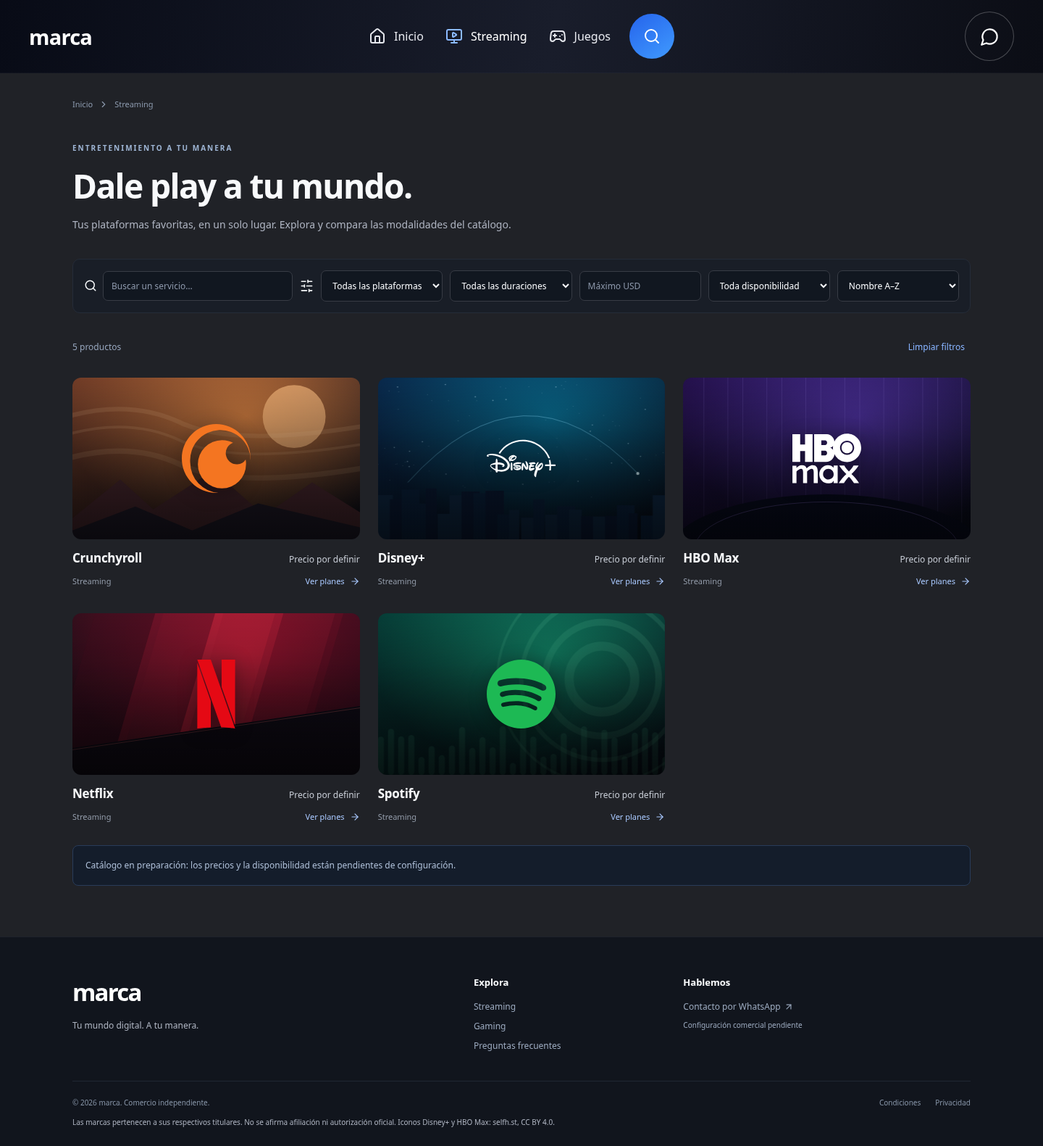
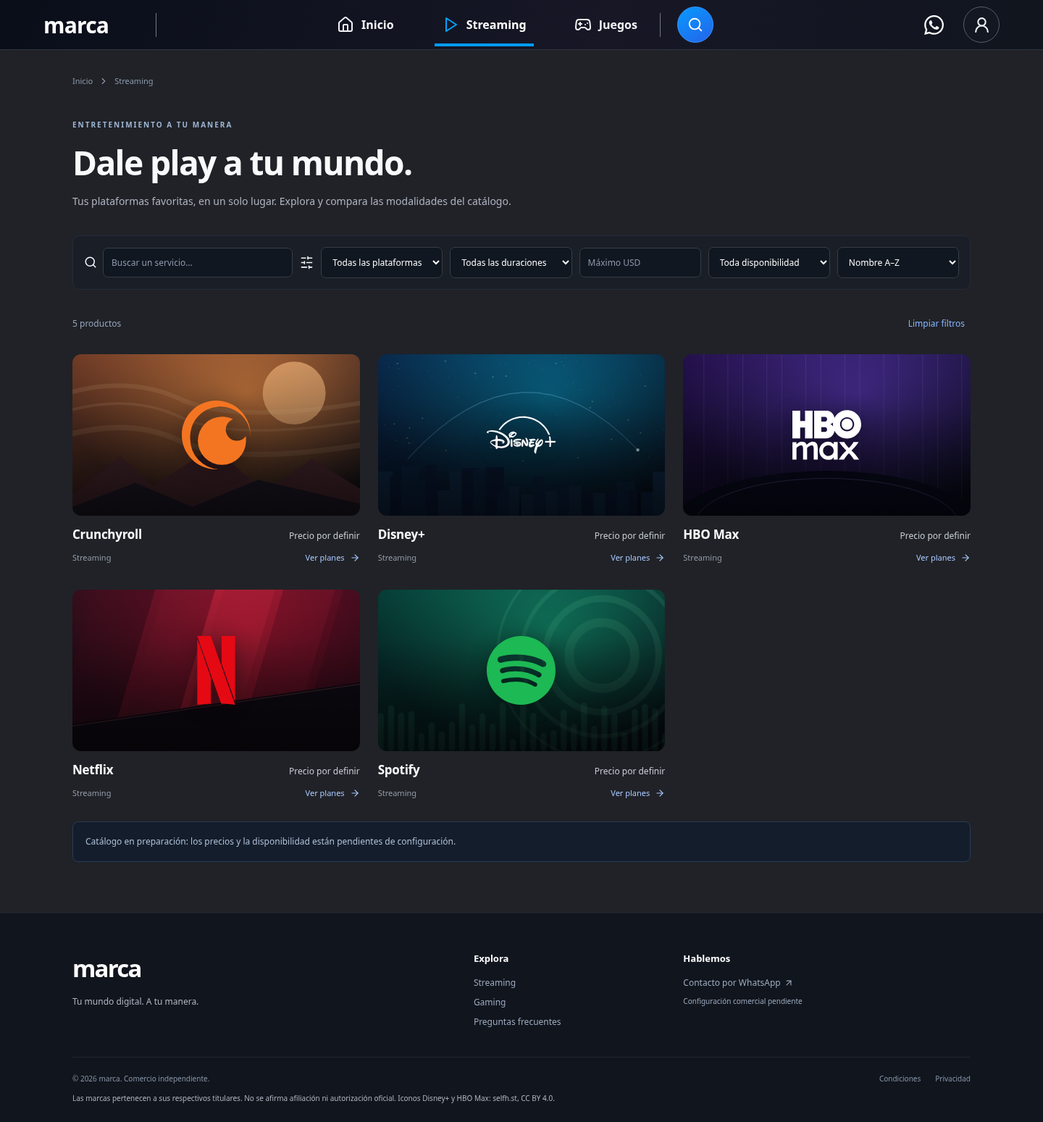
Replicar composición de la referencia con paneles diagonales y lupa azul

diff --git a/src/home.css b/src/home.css
@@ -88,3 +88,85 @@
 
 /* Narrow illustration windows must crop within the adventure panel of the atlas. */
 @media(min-width:761px) and (max-width:900px), (max-width:360px){.home-game-scene{width:auto;height:200%;left:auto;right:0;top:0;transform:translateY(-50%)}}
+
+/* Latest reference: continuous diagonal artwork instead of floating tiles. */
+.home-page{width:min(1528px,calc(100% - 92px));padding-top:25px}
+.home-hero{display:block;position:relative;min-height:290px;height:290px;padding:36px 48px;overflow:hidden;border:0;background:linear-gradient(115deg,#15202c,#0b121b 70%);border-radius:20px}
+.home-hero-copy{width:41%;height:100%;display:flex;flex-direction:column;justify-content:center;z-index:4}
+.home-hero h1{font-size:clamp(33px,3.1vw,46px);line-height:1.08;font-weight:780;letter-spacing:-1.25px;margin-bottom:13px}
+.home-hero-copy>p{font-size:17px;line-height:1.5;max-width:425px;margin-bottom:19px}
+.home-hero-actions{gap:18px;flex-wrap:nowrap}
+.home-hero-actions .button{border-radius:14px;height:45px;min-height:45px;font-size:14px;padding:10px 22px;white-space:nowrap;background:linear-gradient(110deg,#008fff,#0861ec);border:1px solid #1a86fa}
+.home-hero-actions .secondary{background:#0b121b80;border-color:#89919b}
+.home-platforms{position:absolute;left:39%;right:-56px;top:0;bottom:0;height:100%;padding:0;margin:0;display:flex;gap:0;transform:none;perspective:none;justify-content:stretch;z-index:2}
+.home-platform,.home-platform:nth-child(n),.home-platform.platform-free-fire{flex:1 1 0;min-width:0;max-width:none;width:auto;height:100%;margin:0;transform:skewX(-18deg);border:0;border-left:1px solid #63789580;border-radius:0;box-shadow:none;background:none;overflow:hidden;isolation:isolate}
+.home-platform:before{display:none}.home-platform:after{display:none}
+.home-panel-art{position:absolute;inset:0 -58px;transform:skewX(18deg);background-image:var(--home-art);background-size:auto 200%;z-index:-2}
+.home-panel-art:after{content:'';position:absolute;inset:0;background:linear-gradient(#050a100a,#050a1020 38%,#050a1070)}
+.home-panel-art.art-netflix{background-position:13% top}.home-panel-art.art-disney{background-position:50% top}.home-panel-art.art-max{background-position:87% top}.home-panel-art.art-crunchyroll{background-position:13% bottom}.home-panel-art.art-spotify{background-position:50% bottom}.home-panel-art.art-free-fire{background-position:91% bottom}
+.home-platform .home-identity{transform:skewX(18deg);margin-top:45px;max-width:100%;gap:3px}
+.home-platform .product-logo{width:75%;height:86px;filter:drop-shadow(0 2px 6px #0005)}
+.home-platform .identity-netflix .product-logo{width:61%;height:92px}
+.home-platform .identity-disney .product-logo{width:112%;height:147px;max-width:none}
+.home-platform .identity-max .product-logo{height:78px;width:83%}
+.home-platform .identity-crunchyroll .product-logo{height:61px}
+.home-platform .identity-spotify .product-logo{width:69%;height:73px}
+.home-platform .home-service-name{font-size:13px}
+.home-platform .home-game-name{transform:skewX(18deg);align-self:auto;margin:55px 0 0;font-size:26px;letter-spacing:-1px}
+.home-slide-controls{position:absolute;bottom:20px;left:50%;display:flex;align-items:center;justify-content:center;gap:8px;z-index:7}
+.home-slide-controls button{position:relative;display:block;width:10px;height:10px;border-radius:10px;background:#5e6a7d;padding:0;border:1px solid #7c8ca0;cursor:pointer}
+.home-slide-controls button:before{content:'';position:absolute;inset:-12px -7px}
+.home-slide-controls button[aria-pressed=true]{width:17px;background:#f6faff;border:3px solid #009dff;box-shadow:0 0 0 1px #003e6c}
+.home-slide-1 .home-panel-art{opacity:.72}.home-slide-2 .home-platforms{left:43%}.home-slide-2 .platform-free-fire{flex-grow:2}
+.home-process{margin-top:18px;padding:17px 25px;min-height:71px;border:1px solid #1d2936;border-radius:17px;background:linear-gradient(110deg,#121c27,#111923)}
+.home-process-item{min-height:35px;gap:22px}
+.home-process-item:not(:last-child):after{top:0;bottom:0}
+.home-process-item strong{font-size:14px;margin-bottom:2px}
+.home-process-item span{font-size:12px}
+.home-process-item>svg{width:32px;height:32px}
+.home-section-heading{margin:33px 0 21px}
+.home-section-heading h2{font-size:30px;letter-spacing:-.65px;font-weight:750}
+.home-section-heading>a{font-size:15px}
+.home-streaming-grid{gap:14px}
+.home-page .home-service-card{border-radius:15px}
+.home-cover{aspect-ratio:2.15}
+.home-card-details{padding:10px 51px 11px 18px;min-height:70px}
+.home-card-details h3{font-size:18px;margin-bottom:3px;letter-spacing:-.4px}
+.home-card-details>p{font-size:12px;line-height:1.35}
+.home-card-details>p span:first-child{display:none}
+.home-card-action{width:38px;height:37px;right:11px;bottom:18px;border-radius:11px}
+.home-page .home-game-banner{grid-template-columns:51% 1fr auto;min-height:173px;gap:30px;padding-right:25px;border-radius:18px}
+.home-game-art{min-height:173px;clip-path:polygon(0 0,100% 0,93% 100%,0 100%);padding-left:36px;border-right:3px solid #2563eb}
+.home-game-art .home-game-name{font-size:45px;letter-spacing:-1.2px}
+.home-game-copy h3{font-size:27px;margin-bottom:5px}
+.home-game-copy p{font-size:14px}
+.home-game-packages{font-size:12px;padding:8px 16px;border-radius:22px}
+.home-game-action{width:auto;min-width:145px;height:44px;border-radius:17px;padding:0 17px;display:flex;align-items:center;justify-content:center;gap:10px;font-size:14px;font-weight:650;white-space:nowrap;background:linear-gradient(100deg,#008fff,#0861ec)}
+@media(min-width:1600px){.home-hero{height:310px;min-height:310px}.home-platforms{transform:none}.home-cover{aspect-ratio:2.3}.home-card-details{min-height:76px}.home-card-details>p{font-size:13px}}
+@media(max-width:1200px){.home-page{width:calc(100% - 48px)}.home-hero{padding:30px 32px}.home-hero h1{font-size:34px}.home-hero-copy>p{font-size:14px}.home-hero-actions{gap:11px}.home-hero-actions .button{font-size:12px;padding:10px 15px}.home-platforms{left:41%;right:-45px}.home-platform .home-service-name{font-size:10px}.home-platform .home-game-name{font-size:21px}.home-platform .identity-disney .product-logo{height:124px}.home-platform .identity-max .product-logo{height:62px}.home-process{padding:17px 13px}.home-process-item{gap:11px}.home-process-item strong{font-size:12px}.home-process-item span{font-size:10px}.home-section-heading h2{font-size:27px}.home-card-details{padding-left:12px;min-height:74px}.home-card-details h3{font-size:16px}.home-card-details>p{font-size:11px}.home-card-action{width:32px;height:34px;right:9px}.home-page .home-game-banner{grid-template-columns:44% 1fr auto;gap:20px;padding-right:18px}.home-game-art .home-game-name{font-size:34px}.home-game-copy h3{font-size:23px}.home-game-copy p{font-size:12px}.home-game-action{min-width:115px;padding:0 13px;font-size:12px}.home-game-packages{font-size:10px}}
+@media(max-width:900px){.home-hero-copy{width:43%}.home-hero{padding:29px 24px}.home-hero h1{font-size:29px}.home-hero-copy>p{font-size:13px}.home-hero-actions .button{padding:10px 12px;font-size:11px}.home-platforms{left:46%}.home-platform .home-service-name{font-size:8px}.home-platform .home-game-name{font-size:17px}.home-platform .product-logo{height:57px}.home-platform .identity-netflix .product-logo{height:73px}.home-platform .identity-max .product-logo{height:55px}.home-platform .identity-disney .product-logo{height:98px}.home-platform .identity-crunchyroll .product-logo{height:44px}.home-platform .identity-spotify .product-logo{height:57px}.home-process-item{gap:9px;padding:0 7px}.home-process-item>svg{width:25px}.home-process-item strong{font-size:10px}.home-process-item span{font-size:9px}.home-cover{aspect-ratio:2.2}.home-card-details{min-height:70px}.home-page .home-game-banner{grid-template-columns:39% 1fr auto;gap:16px}.home-game-art{padding:18px}.home-game-art .home-game-name{font-size:28px}.home-game-action{min-width:44px;padding:0 12px}.home-game-action span{display:none}}
+@media(max-width:760px){.home-page{width:calc(100% - 32px);padding-top:16px}.home-hero{padding:25px 23px 0;height:auto;min-height:0;display:flex;flex-direction:column;gap:24px}.home-hero-copy{width:100%;height:auto;min-height:0}.home-hero h1{font-size:32px}.home-hero-copy>p{font-size:14px;max-width:440px;margin-bottom:19px}.home-hero-actions{gap:11px}.home-hero-actions .button{font-size:12px;height:44px;padding:10px 15px}.home-platforms,.home-slide-2 .home-platforms{position:relative;left:auto;right:auto;top:auto;bottom:auto;display:flex;max-width:none;margin:0 -23px;width:calc(100% + 46px);height:185px;min-height:185px;padding:0;transform:none;overflow:hidden;flex-shrink:0}.home-platform,.home-platform:nth-child(n),.home-platform.platform-free-fire{flex:1 1 0;height:100%;width:auto;max-width:none;min-width:0;margin:0;transform:skewX(-12deg);border-radius:0;border-left:1px solid #52627480}.home-panel-art{inset:0 -30px;transform:skewX(12deg)}.home-platform .home-identity{transform:skewX(12deg);margin-top:25px;gap:1px}.home-platform .product-logo{height:45px;width:84%}.home-platform .identity-netflix .product-logo{height:57px;width:70%}.home-platform .identity-disney .product-logo{height:80px;width:120%}.home-platform .identity-max .product-logo{height:43px;width:95%}.home-platform .identity-crunchyroll .product-logo{height:35px}.home-platform .identity-spotify .product-logo{height:41px;width:82%}.home-platform .home-service-name{font-size:6px}.home-platform .home-game-name{font-size:12px;margin-top:25px;transform:skewX(12deg);letter-spacing:-.5px}.home-slide-controls{bottom:13px;left:50%;transform:translateX(-50%)}.home-process{margin-top:16px;grid-template-columns:repeat(2,minmax(0,1fr));padding:19px 8px;gap:23px 0;min-height:0;border-radius:15px}.home-process-item{padding:0 7px;gap:9px}.home-process-item strong{font-size:10px}.home-process-item span{font-size:9px}.home-process-item>svg{width:24px;height:28px}.home-section-heading{margin:27px 0 16px}.home-section-heading h2{font-size:22px}.home-section-heading>a{font-size:11px}.home-streaming-grid{gap:14px 12px}.home-cover{aspect-ratio:1.8}.home-card-details{padding:12px 12px 53px;min-height:104px}.home-card-details h3{font-size:16px}.home-card-details>p{font-size:11px}.home-card-action{width:42px;height:40px;right:10px;bottom:10px}.home-page .home-game-banner{grid-template-columns:1fr auto;min-height:0;padding:0 17px 20px;gap:0 12px}.home-game-art{grid-column:1/-1;margin:0 -17px 18px;min-height:155px;height:155px;clip-path:none;border-right:0;border-bottom:2px solid #2563eb;padding:22px 25px}.home-game-art .home-game-name{font-size:37px}.home-game-copy h3{font-size:23px}.home-game-copy p{font-size:12px}.home-game-packages{font-size:10px;padding:8px 11px}.home-game-action{width:44px;min-width:44px;padding:0;border-radius:13px}.home-game-action span{display:none}}
+@media(max-width:360px){.home-hero{padding:24px 19px 0}.home-hero h1{font-size:28px}.home-hero-copy>p{font-size:13px}.home-hero-actions{gap:8px}.home-hero-actions .button{font-size:11px;padding:10px 11px}.home-platforms{margin:0 -19px;width:calc(100% + 38px);height:164px;min-height:164px}.home-section-heading h2{font-size:19px}.home-card-details h3{font-size:14px}.home-card-details>p{font-size:10px}.home-game-art .home-game-name{font-size:33px}}
+/* Keep the final character panel inside the rounded banner edge. */
+.home-platforms{right:0}
+.home-platform.platform-free-fire{transform:none;flex-grow:1.35;margin-left:-32px;clip-path:polygon(44px 0,100% 0,100% 100%,0 100%)}
+.platform-free-fire .home-panel-art{inset:0;transform:none;background-position:right bottom}
+.home-platform.platform-free-fire .home-game-name{transform:none;font-size:23px;margin-top:70px}
+.home-panel-art.art-disney{background-position:60% top}
+.home-panel-art.art-max{background-position:right top}
+.home-panel-art.art-crunchyroll{background-position:25% bottom}
+.home-game-art{border-right:0}
+.home-game-art:before{content:'';position:absolute;right:0;top:0;bottom:0;width:3px;background:#ff8500;transform:skewX(-14deg);transform-origin:top;z-index:3}
+.home-game-action{background:linear-gradient(100deg,#ff8a00,#ff6500);border-color:#ff941f}
+.home-game-action:hover{background:#ff8a00}
+@media(max-width:1200px){.home-platform.platform-free-fire .home-game-name{font-size:20px}}
+@media(max-width:760px){.home-platforms{right:auto}.home-platform.platform-free-fire{transform:none;margin-left:-11px;flex-grow:1.3;clip-path:polygon(16px 0,100% 0,100% 100%,0 100%)}.home-platform.platform-free-fire .home-game-name{transform:none;font-size:12px;margin-top:30px}.home-game-art{border-bottom-color:#ff8500}.home-game-art:before{display:none}}
+.home-game-name{text-transform:uppercase;font-weight:850;letter-spacing:-1.8px}
+.home-process-item>.whatsapp-icon{flex-shrink:0;width:32px;height:32px}
+@media(max-width:1200px){.home-process-item>.whatsapp-icon{width:28px;height:28px}}
+@media(max-width:900px){.home-process-item>.whatsapp-icon{width:25px;height:25px}}
+@media(max-width:760px){.home-process-item>.whatsapp-icon{width:24px;height:24px}}
+/* Frame the explorer from the top of the adventure illustration. */
+.home-game-scene{top:0;transform:translateY(-50%)}
+.home-cover.art-netflix:before{background:#2a02034d}
+.platform-netflix .home-panel-art:after{background:linear-gradient(#29020950,#18030860)}

diff --git a/src/HomeDashboard.tsx b/src/HomeDashboard.tsx
@@ -1,7 +1,8 @@
 import {useState,type CSSProperties} from 'react';
-import {ArrowRight,Gamepad2,Play,Search,Layers,MessageCircle,ClipboardCheck,Diamond} from 'lucide-react';
+import {ArrowRight,Gamepad2,Play,Zap,Layers,ShieldCheck,Diamond} from 'lucide-react';
 import {catalog,type Product} from './catalog';
 import {ProductIdentity} from './ProductIdentity';
+import {WhatsAppIcon} from './WhatsAppIcon';
 import {money,purchasable,promotion,whatsappUrl} from './commerce';
 
 const products=catalog.filter(p=>p.active);
@@ -9,10 +10,10 @@ const streaming=products.filter(p=>p.category==='streaming');
 const game=products.find(p=>p.id==='free-fire');
 const atlas=new URL(`${import.meta.env.BASE_URL}art/home/editorial-atlas.webp`,document.baseURI).href;
 const process=[
- {Icon:Search,title:'Consulta servicios',text:'Explora nuestro catálogo'},
+ {Icon:Zap,title:'Consulta servicios',text:'Explora nuestro catálogo'},
  {Icon:Layers,title:'Compara modalidades',text:'Revisa opciones y condiciones'},
- {Icon:MessageCircle,title:'Atención por WhatsApp',text:whatsappUrl('Hola')?'Consulta antes de contratar':'Contacto pendiente de configurar'},
- {Icon:ClipboardCheck,title:'Revisa tu solicitud',text:'Confirma los detalles antes de enviar'},
+ {Icon:WhatsAppIcon,title:'Atención por WhatsApp',text:whatsappUrl('Hola')?'Consulta antes de contratar':'Contacto pendiente de configurar'},
+ {Icon:ShieldCheck,title:'Revisa tu solicitud',text:'Confirma los detalles antes de enviar'},
 ];
 
 // Only Inicio uses these wordmarks. Existing product identities stay unchanged elsewhere.
@@ -39,14 +40,22 @@ function HomeServiceCard({p}:{p:Product}){
 }
 
 export function HomeDashboard({onNavigate}:{onNavigate:()=>void}){
+ const [slide,setSlide]=useState(0);
+ const slides=[
+  {title:<>Streaming y juegos<br/>en <span>un solo lugar</span></>,description:'Explora tus plataformas favoritas y recargas de videojuegos desde un solo lugar.',primary:'/streaming',label:'Ver streaming',secondary:'/juegos',secondaryLabel:'Ver juegos'},
+  {title:<>Tus historias y música<br/>en <span>un solo lugar</span></>,description:'Explora las modalidades de Netflix, Disney+, HBO Max, Crunchyroll y Spotify.',primary:'/streaming',label:'Ver streaming',secondary:'/buscar',secondaryLabel:'Explorar catálogo'},
+  {title:<>Tu próxima partida<br/><span>empieza aquí</span></>,description:game?.description||'Explora los juegos del catálogo.',primary:'/producto/free-fire',label:'Ver paquetes',secondary:'/juegos',secondaryLabel:'Ver juegos'},
+ ];
+ const active=slides[slide];
  return <div className="home-dashboard" style={{'--home-art':`url(${atlas})`} as CSSProperties}>
-  <section className="home-hero" aria-labelledby="home-heading">
+  <section className={`home-hero home-slide-${slide}`} aria-labelledby="home-heading" aria-roledescription="carrusel">
    <div className="home-hero-copy">
-    <h1 id="home-heading">Streaming y juegos<br/>en <span>un solo lugar</span></h1>
-    <p>Explora tus plataformas favoritas y recargas de videojuegos desde un solo lugar.</p>
-    <div className="home-hero-actions"><a className="button" href="#/streaming" onClick={onNavigate}><Play size={19}/>Ver streaming</a><a className="button secondary" href="#/juegos" onClick={onNavigate}><Gamepad2 size={20}/>Ver juegos</a></div>
+    <h1 id="home-heading">{active.title}</h1>
+    <p>{active.description}</p>
+    <div className="home-hero-actions"><a className="button" href={`#${active.primary}`} onClick={onNavigate}><Play size={19}/>{active.label}</a><a className="button secondary" href={`#${active.secondary}`} onClick={onNavigate}><Gamepad2 size={20}/>{active.secondaryLabel}</a></div>
    </div>
-   <div className="home-platforms" aria-hidden="true">{products.map((p,i)=><div className={`home-platform platform-${p.id} art-${p.id}`} key={p.id} style={{'--layer':i} as CSSProperties}><HomeIdentity p={p}/></div>)}</div>
+   <div className="home-platforms" aria-hidden="true">{products.map((p,i)=><div className={`home-platform platform-${p.id}`} key={p.id} style={{'--layer':i} as CSSProperties}><div className={`home-panel-art art-${p.id}`}/><HomeIdentity p={p}/></div>)}</div>
+   <div className="home-slide-controls" aria-label="Diapositivas del banner">{slides.map((_,i)=><button key={i} aria-label={`Ver diapositiva ${i+1}`} aria-pressed={slide===i} onClick={()=>setSlide(i)}/>)}</div>
   </section>
   <div className="home-process" aria-label="Cómo consultar y solicitar">{process.map(({Icon,title,text})=><div className="home-process-item" key={title}><Icon size={32} strokeWidth={1.5} aria-hidden="true"/><div><strong>{title}</strong><span>{text}</span></div></div>)}</div>
   <section className="home-streaming" aria-labelledby="streaming-heading">
@@ -61,7 +70,7 @@ export function HomeDashboard({onNavigate}:{onNavigate:()=>void}){
      <HomeIdentity p={game}/>
     </a>
     <div className="home-game-copy"><h3>{game.name}</h3><p>{game.description}</p><a className="home-game-packages" href={`#/producto/${game.id}`}><Diamond size={19}/>Consultar paquetes de diamantes</a></div>
-    <a className="home-game-action" href={`#/producto/${game.id}`} aria-label={`Ver paquetes de ${game.name}`}><ArrowRight size={24}/></a>
+    <a className="home-game-action" href={`#/producto/${game.id}`} aria-label={`Ver paquetes de ${game.name}`}><span>Ver paquetes</span><ArrowRight size={22}/></a>
    </article>
   </section>}
   {products.some(promotion)&&<section aria-labelledby="home-offers-heading"><div className="home-section-heading"><h2 id="home-offers-heading">Ofertas del catálogo</h2></div><div className="home-streaming-grid">{products.filter(promotion).map(p=><HomeServiceCard key={p.id} p={p}/>)}</div></section>}

diff --git a/src/main.tsx b/src/main.tsx
@@ -1,13 +1,15 @@
 import React,{useEffect,useRef,useState} from 'react';
 import {createRoot} from 'react-dom/client';
-import {ArrowRight,ArrowUpRight,Search,Gamepad2,MessageCircle,Menu,X,Check,ShieldCheck,SlidersHorizontal,ChevronRight,Home,MonitorPlay} from 'lucide-react';
+import {ArrowRight,ArrowUpRight,Search,Gamepad2,MessageCircle,Menu,X,Check,ShieldCheck,SlidersHorizontal,ChevronRight,Home,UserRound,Play} from 'lucide-react';
 import {business,catalog,type Product} from './catalog';
 import {money,purchasable,validPlayerId,whatsappUrl,orderMessage} from './commerce';
 import {ProductIdentity} from './ProductIdentity';
 import {ProductCard as Card} from './ProductCard';
 import {HomeDashboard} from './HomeDashboard';
+import {WhatsAppIcon} from './WhatsAppIcon';
 import './style.css';
 import './home.css';
+import './navigation.css';
 const products=catalog.filter(p=>p.active);
 function App(){
  const [route,setRoute]=useState(location.hash.slice(1)||'/');const [query,setQuery]=useState('');const [menu,setMenu]=useState(false);const [selected,setSelected]=useState('');const [duration,setDuration]=useState('');const [availability,setAvailability]=useState('');const [sort,setSort]=useState('name');const [max,setMax]=useState('');
@@ -25,12 +27,13 @@ function App(){
   <a className="brand" href="#/" aria-label="Inicio">marca</a>
   <div className="nav-center">
    <nav id="main-navigation" className={menu?'open':''} aria-label="Principal">
-    {([['/','Inicio',Home],['/streaming','Streaming',MonitorPlay],['/juegos','Juegos',Gamepad2]] as const).map(([path,label,Icon])=><a key={path} onClick={reset} className={route===path?'active':''} aria-current={route===path?'page':undefined} href={`#${path}`}><Icon size={24} aria-hidden="true"/><span>{label}</span></a>)}
+    {([['/','Inicio',Home],['/streaming','Streaming',Play],['/juegos','Juegos',Gamepad2]] as const).map(([path,label,Icon])=><a key={path} onClick={reset} className={route===path?'active':''} aria-current={route===path?'page':undefined} href={`#${path}`}><Icon size={24} aria-hidden="true"/><span>{label}</span></a>)}
    </nav>
    <button className="search-toggle" aria-label="Abrir búsqueda" aria-haspopup="dialog" onClick={()=>searchDialog.current?.showModal()}><Search size={24}/></button>
   </div>
   <div className="nav-actions">
-   <a className="contact" aria-label="Contacto por WhatsApp" title="Contacto por WhatsApp" href={contact||'#/contacto'}><MessageCircle size={27}/></a>
+   <a className="contact" aria-label="Contacto por WhatsApp" title="Contacto por WhatsApp" href={contact||'#/contacto'}><WhatsAppIcon size={27}/></a>
+   <a className="store-info" href="#/contacto" aria-label="Información de contacto" title="Información de contacto"><UserRound size={25}/></a>
    <button className="menu-button" aria-label={menu?'Cerrar menú':'Abrir menú'} aria-controls="main-navigation" aria-expanded={menu} onClick={()=>setMenu(!menu)}>{menu?<X/>:<Menu/>}</button>
   </div>
  </div></header>

diff --git a/src/navigation.css b/src/navigation.css
@@ -1,0 +1,22 @@
+/* Navigation composition from the latest approved reference; brand stays provisional. */
+.store-header{background:linear-gradient(105deg,#090e19,#171726 58%,#10151e);border-bottom:1px solid #303641}
+.store-header .nav{width:min(1528px,calc(100% - 120px));min-height:68px;gap:24px}
+.store-header .brand{font-size:30px;padding-right:43px;border-right:1px solid #737985;font-weight:700;line-height:33px;letter-spacing:-.8px}
+.nav-center{gap:24px}
+.store-header nav{gap:31px}
+.store-header nav a{position:relative;min-height:60px;gap:10px;font-size:16px;font-weight:650;padding:0 10px;color:#f1f3f7}
+.store-header nav a.active:after{display:block;left:0;right:0;bottom:0;height:4px;width:auto;background:#009cff}
+.store-header nav a.active svg{color:#00a5ff}
+.search-toggle{position:relative;width:50px;height:50px;background:linear-gradient(145deg,#079afc,#2563eb);border:1px solid #3796ff}
+.search-toggle:before{content:'';position:absolute;left:-25px;height:33px;width:1px;background:#717985}
+.search-toggle:hover{background:#187df2;box-shadow:0 0 18px #1d73d126}
+.search-toggle svg{width:22px;height:22px}
+.nav-actions{gap:27px}
+.store-header .contact{border:0;background:none;width:28px;height:44px}
+.store-header .contact:hover{background:none;color:#63baff}
+.store-info{width:50px;height:50px;border:1px solid #58606a;border-radius:50%;display:grid;place-items:center;background:#ffffff03;color:#eef2f7}
+.store-info:hover{border-color:#93b2d6;background:#ffffff07}
+.search-dialog{margin-top:85px}
+@media(max-width:1100px){.store-header .nav{width:calc(100% - 48px);gap:16px}.store-header .brand{padding-right:25px;font-size:27px}.store-header nav{gap:18px}.store-header nav a{font-size:14px;padding:0 6px}.nav-center{gap:20px}.search-toggle:before{left:-20px}.nav-actions{gap:19px}}
+@media(max-width:760px){.store-header .nav{width:calc(100% - 32px);min-height:72px;gap:13px}.store-header .brand{border:0;padding:0;font-size:26px}.search-toggle{width:44px;height:44px}.search-toggle:before{display:none}.nav-actions{gap:12px}.store-header .contact{width:26px;height:44px}.store-info{display:none}.store-header nav.open{top:100%;gap:20px}.store-header nav a{min-height:48px;font-size:12px;padding:0 6px}.store-header nav a.active:after{height:3px}.search-dialog{margin-top:87px}}
+@media(min-width:1101px){.store-header .brand{padding-right:65px}.store-header nav{gap:46px}.nav-center{gap:45px}}

diff --git a/e2e/store.spec.ts b/e2e/store.spec.ts
@@ -1,4 +1,15 @@
 import {test,expect} from '@playwright/test';
+test('los indicadores del banner cambian el contenido y sus enlaces',async({page})=>{
+ await page.goto('/');
+ await page.getByRole('button',{name:'Ver diapositiva 2',exact:true}).click();
+ await expect(page.getByRole('heading',{level:1})).toContainText('Tus historias y música');
+ await expect(page.getByRole('button',{name:'Ver diapositiva 2',exact:true})).toHaveAttribute('aria-pressed','true');
+ await page.getByRole('button',{name:'Ver diapositiva 3',exact:true}).click();
+ await expect(page.getByRole('heading',{level:1})).toContainText('Tu próxima partida');
+ await expect(page.locator('.home-hero-actions').getByRole('link',{name:'Ver paquetes',exact:true})).toHaveAttribute('href','#/producto/free-fire');
+ await page.getByRole('button',{name:'Ver diapositiva 1',exact:true}).click();
+ await expect(page.getByRole('heading',{level:1})).toContainText('Streaming y juegos');
+});
 test('inicio separa streaming y recargas y abre los productos existentes',async({page})=>{
  await page.goto('/');
  const streaming=page.getByRole('region',{name:'Servicios de streaming'});

diff --git a/src/WhatsAppIcon.tsx b/src/WhatsAppIcon.tsx
@@ -1,0 +1,3 @@
+export function WhatsAppIcon({size=27}:{size?:number;strokeWidth?:number}){
+ return <img className="whatsapp-icon" src={`${import.meta.env.BASE_URL}logos/home/whatsapp.svg`} width={size} height={size} alt="" aria-hidden="true"/>;
+}

diff --git a/README.md b/README.md
@@ -49,9 +49,9 @@ No se requiere añadir credenciales al código. El workflow usa el `GITHUB_TOKEN
 
 Inicio sigue la referencia del dashboard aportada por el usuario: hero compacto con seis plataformas, franja informativa del proceso, cinco tarjetas de streaming y un banner horizontal de Free Fire. Mantiene el negro profundo, superficies grises y acentos azules. No se añaden garantías de entrega, pagos ni precios ficticios.
 
-La navegación y su buscador se conservan intactos, igual que las páginas de Streaming y Juegos. `src/HomeDashboard.tsx` organiza el contenido de Inicio; `src/home.css` limita sus estilos a esa página. Las tarjetas exclusivas de Inicio se definen en `HomeDashboard.tsx`; `src/ProductCard.tsx` conserva las tarjetas de las otras páginas. El catálogo y la lógica comercial no cambian. Las preguntas frecuentes siguen al final.
+La navegación sigue la última referencia aprobada: se conserva «marca» sin símbolo, con enlaces centrados, subrayado activo y búsqueda circular azul. Los filtros y las páginas de Streaming y Juegos mantienen su funcionamiento. `src/HomeDashboard.tsx` organiza el contenido de Inicio; `src/home.css` limita sus estilos a esa página. Las tarjetas exclusivas de Inicio se definen en `HomeDashboard.tsx`; `src/ProductCard.tsx` conserva las tarjetas de las otras páginas. El catálogo y la lógica comercial no cambian. Las preguntas frecuentes siguen al final.
 
-Inicio utiliza un atlas WebP con seis ilustraciones originales; las otras páginas conservan los SVG de `public/art/`. Estos recursos no son material oficial de las plataformas. La composición del hero es estática y no muestra controles de carrusel. Consulta la [comparación visual y validación](docs/FIDELIDAD-INICIO.md) y la [procedencia de las ilustraciones](public/art/home/README.md).
+Inicio utiliza un atlas WebP con seis ilustraciones originales; las otras páginas conservan los SVG de `public/art/`. Estos recursos no son material oficial de las plataformas. El hero usa seis paneles diagonales continuos y tres indicadores que cambian su contenido y enlaces. Consulta la [comparación visual y validación](docs/FIDELIDAD-INICIO.md) y la [procedencia de las ilustraciones](public/art/home/README.md).
 
 ## Capturas reales
 
@@ -81,7 +81,7 @@ Para regenerarlas, en una terminal ejecutar `npm run build` y `npm run preview -
 
 - `npm run build`: TypeScript y compilación de producción.
 - `npm test`: 6 pruebas comerciales.
-- `npm run test:e2e`: 10 pruebas de navegador, repartidas entre escritorio y tamaño móvil; búsquedas, filtros, navegación, planes, validación del ID, resumen y enlace WhatsApp.
+- `npm run test:e2e`: 12 pruebas de navegador, repartidas entre escritorio y tamaño móvil; búsquedas, filtros, navegación, planes, validación del ID, resumen y enlace WhatsApp.
 - `npm run screenshots`: verifica Inicio, Streaming y Juegos, recarga directa de rutas bajo `/ipey/`, número esperado de productos y carga de imágenes y ausencia de errores JavaScript antes de guardar las seis capturas.
 
 No se envían mensajes de WhatsApp en las pruebas. La prueba de contratación usa datos ficticios aislados; los precios y el número publicados siguen pendientes. La emulación móvil en Chromium no sustituye pruebas en dispositivos físicos Android o iPhone.

diff --git a/docs/REFERENCIA-INICIO-ACTUAL.md b/docs/REFERENCIA-INICIO-ACTUAL.md
@@ -1,0 +1,20 @@
+# Última referencia de Inicio
+
+La nueva referencia sustituye la composición anterior de tarjetas flotantes. El usuario confirmó conservar «marca» sin símbolo en la cabecera.
+
+Cambios:
+
+- Cabecera de 68 px con separadores, subrayado azul en la página activa, iconos de navegación y lupa circular azul. El icono de persona abre la información de contacto existente; no se añade un sistema ficticio de cuentas.
+- Hero con seis paneles diagonales continuos de altura completa y recortes individuales. El personaje del último panel queda dentro del borde redondeado.
+- Tres indicadores funcionales: cambian título, descripción y enlaces del banner. Sin reproducción automática.
+- Franja informativa dentro de una superficie oscura redondeada, con iconos lineales y cuatro columnas.
+- Cinco tarjetas de streaming con portada, nombre, estado real del precio y flecha. No se muestra «Planes disponibles» cuando no hay disponibilidad confirmada.
+- Banner horizontal de aventura con imagen a la izquierda, corte diagonal, información a la derecha y botón naranja «Ver paquetes», como la referencia. La lupa conserva el azul solicitado.
+- Nuevo atlas de ilustraciones originales: cine, fantasía, vigilante enmascarado, anime, seda verde y explorador con chaqueta ocre. Los personajes y escenas no son material oficial de las plataformas. Los logotipos existentes siguen siendo imágenes independientes; Free Fire conserva un título tipográfico.
+- No se han modificado el catálogo, los precios, la lógica comercial ni los formularios. Las páginas de Streaming y Juegos conservan su contenido; comparten la nueva navegación.
+
+Comparación visual realizada abriendo capturas de escritorio y móvil. Se igualan la distribución del hero, los paneles inclinados, el ritmo vertical de las secciones, la franja redondeada y el banner de Free Fire. Las ilustraciones y algunas versiones de los logotipos siguen siendo diferentes de la referencia; no se afirma equivalencia píxel a píxel.
+
+Validación: compilación de producción, 6 pruebas comerciales, 12 pruebas de navegador y capturas con imágenes cargadas, sin errores HTTP/JavaScript ni desbordamiento entre 320 y 1448 px. Los indicadores del hero se prueban en escritorio y móvil.
+
+Archivos principales: `src/HomeDashboard.tsx`, `src/home.css`, `src/navigation.css`, `src/WhatsAppIcon.tsx`, cabecera de `src/main.tsx`, ilustraciones, logotipo de WhatsApp, capturas y pruebas.

diff --git a/public/art/home/README.md b/public/art/home/README.md
@@ -1,9 +1,9 @@
-# Ilustraciones originales de Inicio
+# Ilustraciones de la última referencia de Inicio
 
-`editorial-atlas.webp` reúne seis composiciones originales generadas para este proyecto con la herramienta de imágenes, sin copiar imágenes de Instant Gaming ni extraer escenas de películas, anime o videojuegos. No es una captura de la interfaz. La interfaz, textos, botones y logotipos siguen siendo elementos HTML independientes.
+El atlas `editorial-atlas.webp` contiene seis ilustraciones originales generadas para el proyecto: reparto cinematográfico ficticio, castillo original, vigilante enmascarado original, aventurero de anime original, seda verde y explorador con chaqueta ocre ante un paisaje al atardecer.
 
-Orden: terciopelo cinematográfico; castillo original nocturno; escenario violeta; explorador de anime original; tocadiscos y auriculares; explorador en un paisaje de aventura original. Los exploradores y el castillo no representan personajes ni escenarios oficiales.
+No se usan escenas de películas ni personajes oficiales de las plataformas. Los textos, logotipos, controles y botones se construyen con HTML y CSS. No es una captura de una interfaz.
 
-La ilustración fuente se conserva en `/workspace/generated_images/exec-c5f854ab-8939-4877-8dba-eacfa8486337.png`. El recurso web se convirtió a WebP con calidad 88, sin alterar la composición (2172 × 724, 164.218 bytes). El atlas se carga una vez y se recorta mediante CSS. No hay imágenes de referencia completas colocadas como fondo de la interfaz.
+La fuente se conserva en `/workspace/generated_images/exec-926bfb5c-0f57-4c70-b01e-7233f5390e65.png`. El archivo público fue convertido a WebP con calidad 88. La imagen se comparte entre las seis portadas y las ilustraciones del banner para evitar descargas separadas.
 
-Los logotipos se cargan por separado desde `public/logos/`; su procedencia se documenta en `docs/LOGOTIPOS.md`.
+Los logotipos se cargan por separado desde `public/logos/`; véase `docs/LOGOTIPOS.md`.

diff --git a/docs/LOGOTIPOS.md b/docs/LOGOTIPOS.md
@@ -26,3 +26,7 @@ Se intentó abrir la versión española de Instant Gaming con HTTP y Chromium. E
 - Crunchyroll mantiene su símbolo existente junto al nombre como texto neutral, no una reproducción de su tipografía corporativa.
 - Free Fire se presenta mediante su nombre tipográfico y una escena de aventura original. Inicio deja de usar el PNG de terceros cuya licencia no se había confirmado. Las otras páginas y sus recursos se conservan por la restricción de alcance.
 - `public/art/home/editorial-atlas.webp`: ilustraciones originales creadas para el proyecto. No es arte oficial ni material promocional de Disney+, Crunchyroll o Free Fire. Véase `public/art/home/README.md`.
+
+## WhatsApp en la última navegación
+
+`public/logos/home/whatsapp.svg` procede de [Simple Icons 11.15.0](https://cdn.jsdelivr.net/npm/simple-icons@11.15.0/icons/whatsapp.svg), colección CC0 ya incluida en `public/logos/LICENSE-CC0.txt`. Se usa el símbolo en blanco, sin deformación. El enlace conserva el número configurado o dirige a la página de contacto mientras siga pendiente.

diff --git a/docs/FIDELIDAD-INICIO.md b/docs/FIDELIDAD-INICIO.md
@@ -1,5 +1,7 @@
 # Corrección visual de Inicio
 
+> Informe de la versión anterior. La [última referencia de Inicio](REFERENCIA-INICIO-ACTUAL.md) sustituye este diseño y autoriza adaptar la navegación, conservando «marca» sin símbolo.
+
 Estado: corrección visual completada y verificada antes de solicitar publicación. La publicación requiere autorización explícita; el propietario la autorizó posteriormente.
 
 ## Capturas reales
